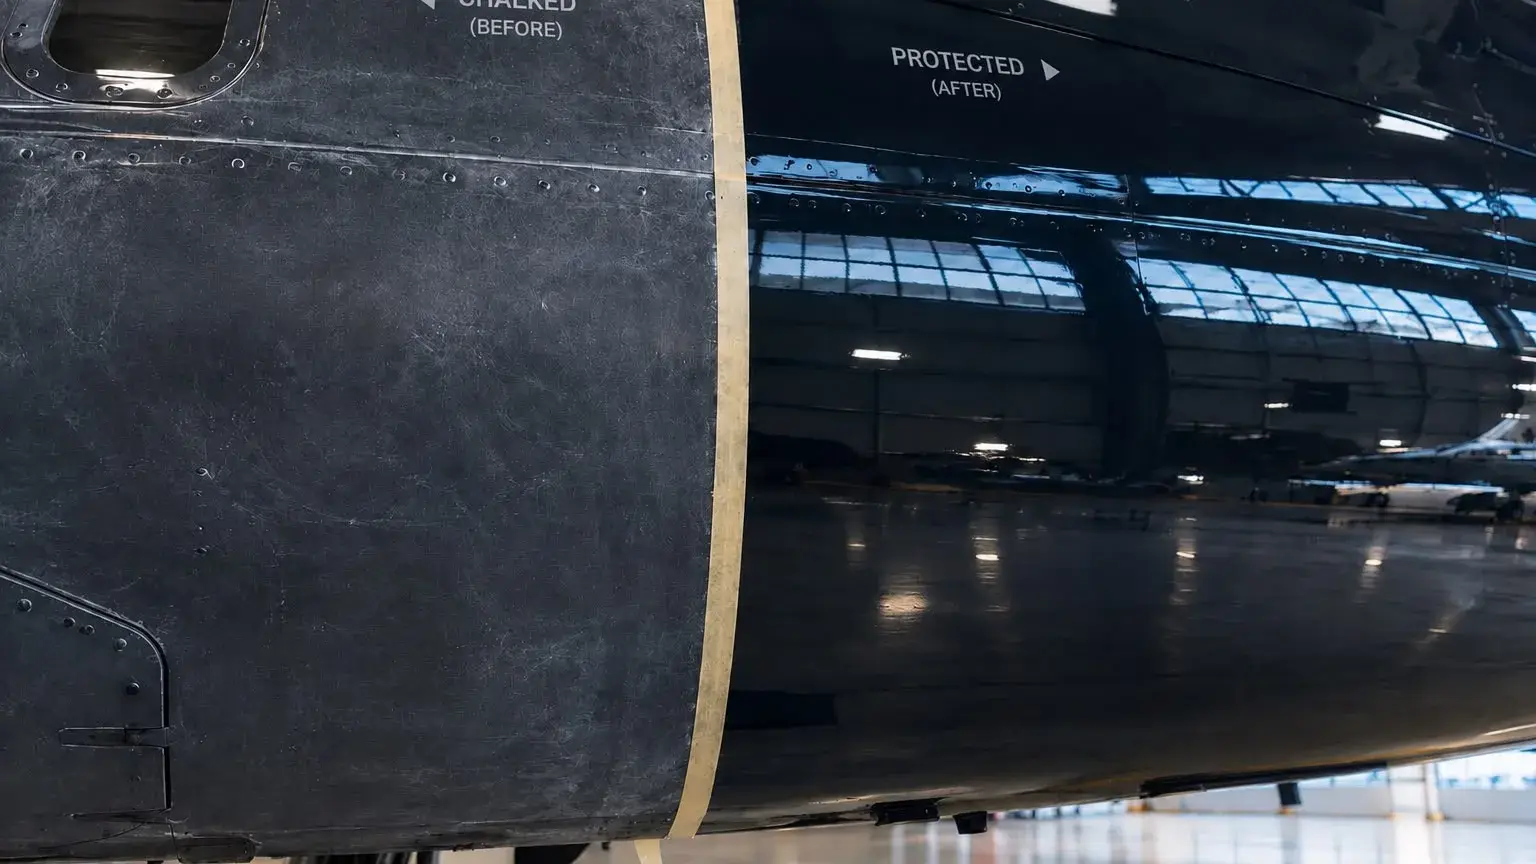
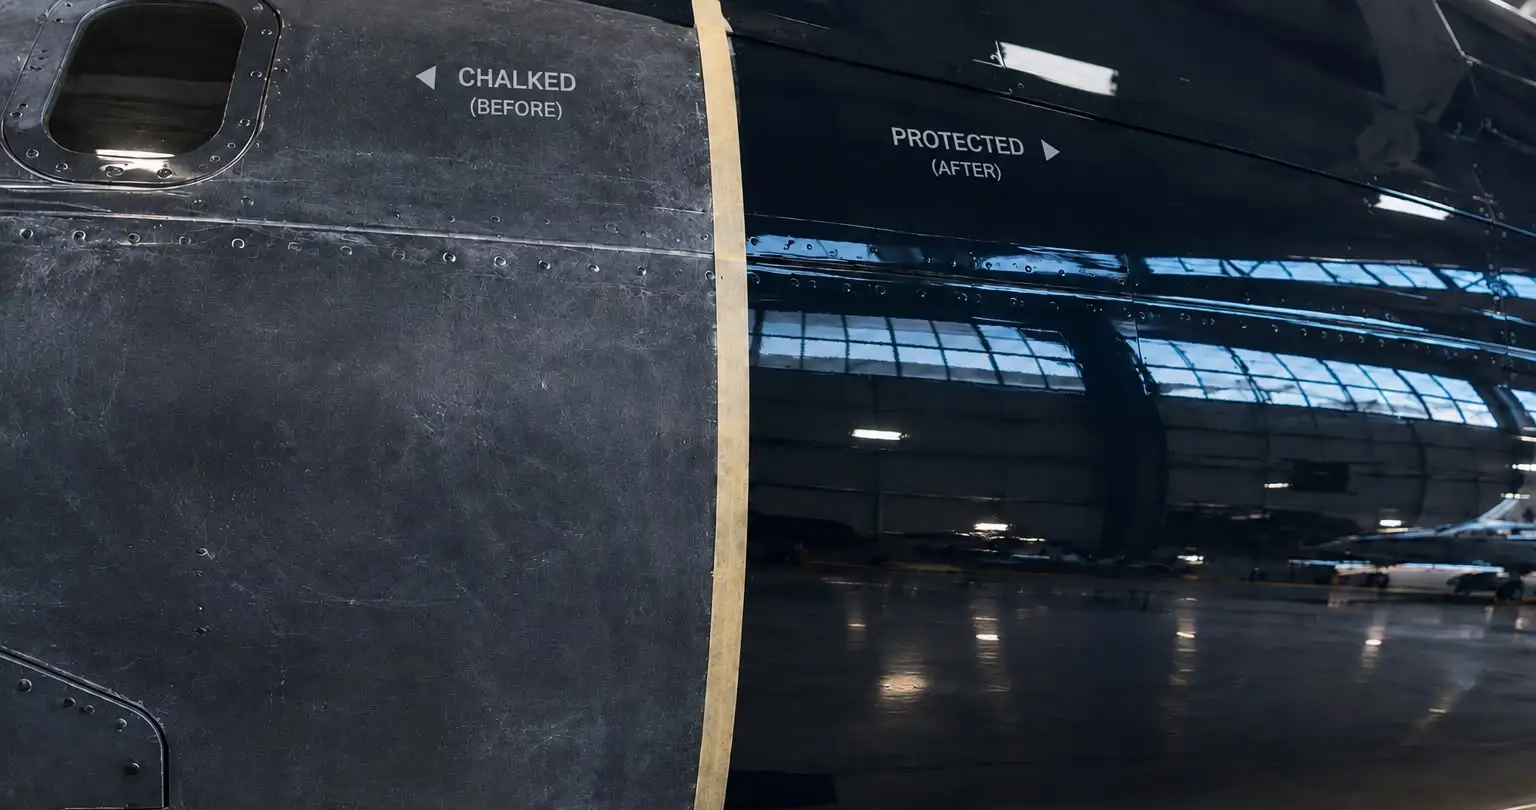
Move both before/after photographs into the comparison blocks
The two photographs carrying printed before/after labels had landed in body
slots while the comparison blocks — the one place on each page built to hold
a with/without pair — still drew a diagram.

The aircraft fuselage, CHALKED against PROTECTED across a tape line, now sits
in its comparison block, and the technician wiping the fuselage takes the
oxidation section it vacated. On solar the coated/uncoated module pair moves
up into the comparison block, whose copy is already about water beading away
rather than holding as a film.

Both were re-cropped to 1456/768 rather than reused at 16:9. Cropping the
aircraft frame from the centre sliced the word CHALKED in half, so that one
is anchored north — the labels sit in the top eighth of the frame and the
hangar floor at the bottom is what can afford to go.

This leaves "Fewer places for dirt to hold on" without a photograph, drawing
its droplet plate again. One more beading shot fills it.

diff --git a/src/content/seed/service-solar.ts b/src/content/seed/service-solar.ts
@@ -67,12 +67,11 @@ export const solarService: ServiceDoc = {
         "Dissolved minerals leave with the water instead of drying into scale",
         "Organic soiling — bird droppings, sap, pollen — releases with a rinse",
       ],
+      /* No photograph here: the coated/uncoated pair earns more in the
+         comparison block above, where the labels printed on it line up with
+         the with/without copy. This section draws its plate until there is a
+         second beading shot to fill it. */
       motif: "droplet",
-      media: {
-        src: "/work/solar/coated-uncoated.webp",
-        alt: "Two adjacent rooftop modules at sunrise: the coated one on the left holding water in discrete beads, the uncoated one on the right covered by a flat dirty film",
-        ratio: 16 / 9,
-      },
     },
     {
       id: "sol-gain",
@@ -294,8 +293,8 @@ export const solarService: ServiceDoc = {
     body:
       "A photovoltaic cell can only convert the light that reaches it. Everything between the sun and the cell — dust, mineral haze, a rough surface scattering light back out — is generation you paid for and did not get.",
     media: {
-      src: "/profile/solar-performance.webp",
-      alt: "Split comparison of a solar panel with and without ceramic coating, showing light scattering off a soiled surface against clean transmission on a coated one",
+      src: "/work/solar/coated-uncoated.webp",
+      alt: "Two adjacent rooftop modules at sunrise: the coated one on the left holding water in discrete beads, the uncoated one on the right covered by a flat dirty film",
       ratio: 1456 / 768,
     },
     withoutLabel: "Without ceramic coating",

diff --git a/src/content/seed/service-aircraft.ts b/src/content/seed/service-aircraft.ts
@@ -87,8 +87,8 @@ export const aircraftService: ServiceDoc = {
       ],
       motif: "polisher",
       media: {
-        src: "/work/aircraft/chalked-protected.webp",
-        alt: "A business jet fuselage divided by masking tape: the chalked, matte section labelled before on the left, the coated section on the right returning the hangar roof as a clean reflection",
+        src: "/work/aircraft/fuselage-wipe.webp",
+        alt: "A Perfect Detailing technician drawing a microfibre cloth along the polished fuselage of a business jet in a hangar",
         ratio: 16 / 9,
       },
     },
@@ -185,8 +185,8 @@ export const aircraftService: ServiceDoc = {
     body:
       "Aerodynamics is decided at the boundary layer, a few millimetres off the skin. What happens in that layer is governed by how smooth the surface underneath it is — which is the one variable a coating can actually change.",
     media: {
-      src: "/work/aircraft/fuselage-wipe.webp",
-      alt: "A Perfect Detailing technician drawing a microfibre cloth along the polished fuselage of a business jet in a hangar",
+      src: "/work/aircraft/chalked-protected.webp",
+      alt: "A business jet fuselage divided by masking tape: the chalked, matte section labelled before on the left, the coated section on the right returning the hangar roof as a clean reflection",
       ratio: 1456 / 768,
     },
     withoutLabel: "Without ceramic coating",
